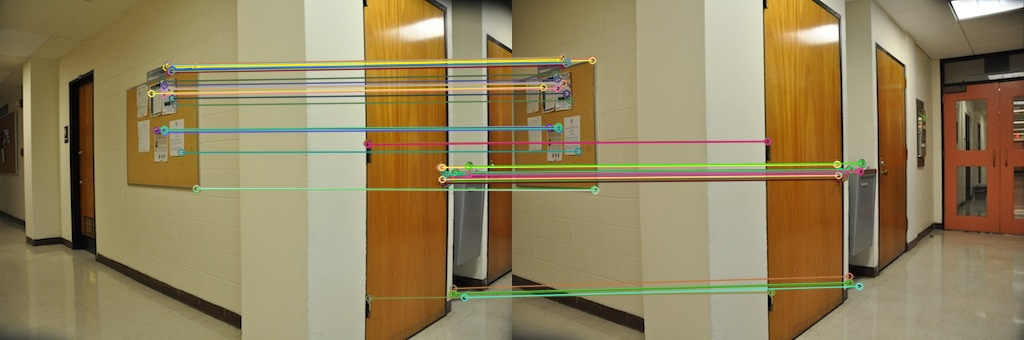
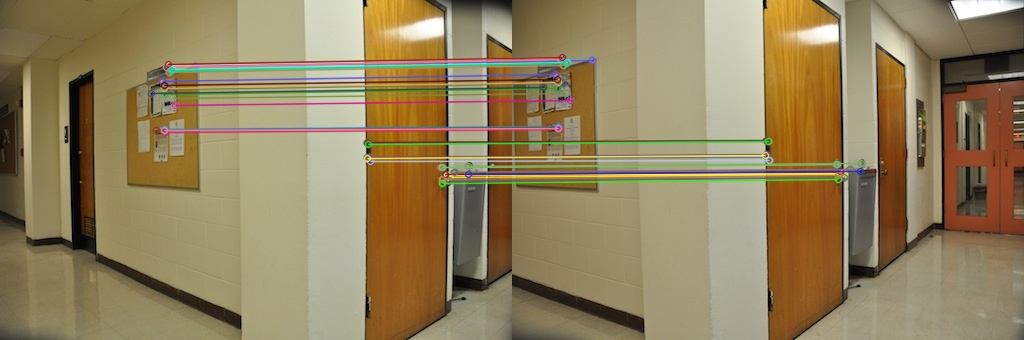
warping image

Changed region(s): [[0.1562, 0.3529, 0.8438, 0.5882], [0.125, 0.1471, 0.5938, 0.3235], [0.4062, 0.7941, 0.8438, 0.8824]]

diff --git a/mosaic.py b/mosaic.py
@@ -352,7 +352,7 @@ def drawMatches(img1, img2, correspondences):
     for row in correspondences:
         print(row)
 
-    H, mask = cv2.findHomography(src_pts, dst_pts, cv2.RANSAC)
+    H, mask = cv2.findHomography(src_pts, dst_pts, cv2.RANSAC, 5.0)
 
     np.set_printoptions(suppress=True)
     print("Estimated homography : \n", H)
@@ -372,12 +372,65 @@ def drawMatches(img1, img2, correspondences):
             goodMatches.append(cv2.DMatch(_imgIdx=0, _queryIdx=count, _trainIdx=count, _distance=0))
             count += 1
 
-    print(len(kp1_inliers))
-
     matches_img = cv2.drawMatches(img1, kp1_inliers, img2, kp2_inliers, goodMatches, None)
     cv2.imwrite("matches.jpg", matches_img)
+    
 
-    return
+    return H
+
+# Function takes in the two images that need to be warped together
+# and the Homography generated from the 4 corresponding points in 
+# the two images. The function determines the size of the output image,
+# copies image 2 into the output image, and then warps image one into the
+# output image using the homography matrix. The images are then blended
+# using a feather technique.
+# @params   img1, first image
+#           img2, second image
+#           H, the 3x3 homography
+# @returns  out_img, the panorama output image
+def warpimage(img1, img2, H):
+
+    # finding the size of the two images to determine the output image size when the
+    # two images are warped together
+    rows1, cols1 = img1.shape[:-1]
+    rows2, cols2 = img2.shape[:-1]    
+
+    # all the pixel coordinates of the reference image (img 1)
+    list_of_points_1 = np.float32([[0,0], [0, rows1],[cols1, rows1], [cols1, 0]]).reshape(-1, 1, 2)
+
+    # all the pixel coordinates of the second reference image (img 2) that is going to be transformed
+    temp_points = np.float32([[0,0], [0, rows2], [cols2, rows2], [cols2, 0]]).reshape(-1,1,2)
+
+    # calculate the transformation using the refined H matrix and the points in the 
+    # second image to map where they need ot be in the first image
+    list_of_points_2 = cv2.perspectiveTransform(temp_points, H)
+
+    # joining the two list of points from the img 1 points and the transformed img 2 points
+    list_of_points = np.concatenate((list_of_points_2, list_of_points_1), axis=0)
+
+    # defining width and the heigh of the ouput image using the number of pixels in
+    # img 1 and img 2 
+    [x_min, y_min] = np.int32(list_of_points.min(axis=0).ravel() - 0.5)
+    [x_max, y_max] = np.int32(list_of_points.max(axis=0).ravel() + 0.5)
+    
+    # defining the translation 
+    translation_dist = [-x_min,-y_min]
+    print("translation dist: ", translation_dist)
+
+    H_translation = np.array([[1, 0, translation_dist[0]], [0, 1, translation_dist[1]], [0, 0, 1]])
+
+    print("H translation: ", H_translation)
+
+    # warp the first image onto the second image, using the transformation matrix
+    # passing in the first image, the transformation matrix, and the width/height of the output image
+    output_img = cv2.warpPerspective(img1, H_translation.dot(H), (x_max-x_min, y_max-y_min))
+
+    output_img[translation_dist[1]:rows1+translation_dist[1], translation_dist[0]:cols1+translation_dist[0]] = img2
+
+    cv2.imwrite("warpedimg.jpg", output_img)
+
+    return output_img
+
 
 def main(): 
 
@@ -447,10 +500,14 @@ def main():
 
     correspondences1 = bfMatcher(img1, img2)
 
-    print("correspondences:")
-    print(correspondences1)
+    # print("correspondences:")
+    # print(correspondences1)
 
-    drawMatches(img1, img2, correspondences1)
+    homography = drawMatches(img1, img2, correspondences1)
+
+    warpimage(img1, img2, homography)
+
+
 
     # algo = "SSD"
 
@@ -491,12 +548,11 @@ def main():
 
     # alignImages(img1, img2, correspondences1, RANSAC)
 
-    return
 
     # Write aligned image to disk.
-    outFilename = "panorama.jpg"
-    print("Saving aligned image : ", outFilename)
-    cv2.imwrite(outFilename, panorama)
+    # outFilename = "panorama.jpg"
+    # print("Saving aligned image : ", outFilename)
+    # cv2.imwrite(outFilename, panorama)
 
 if __name__ == "__main__":
     main()
